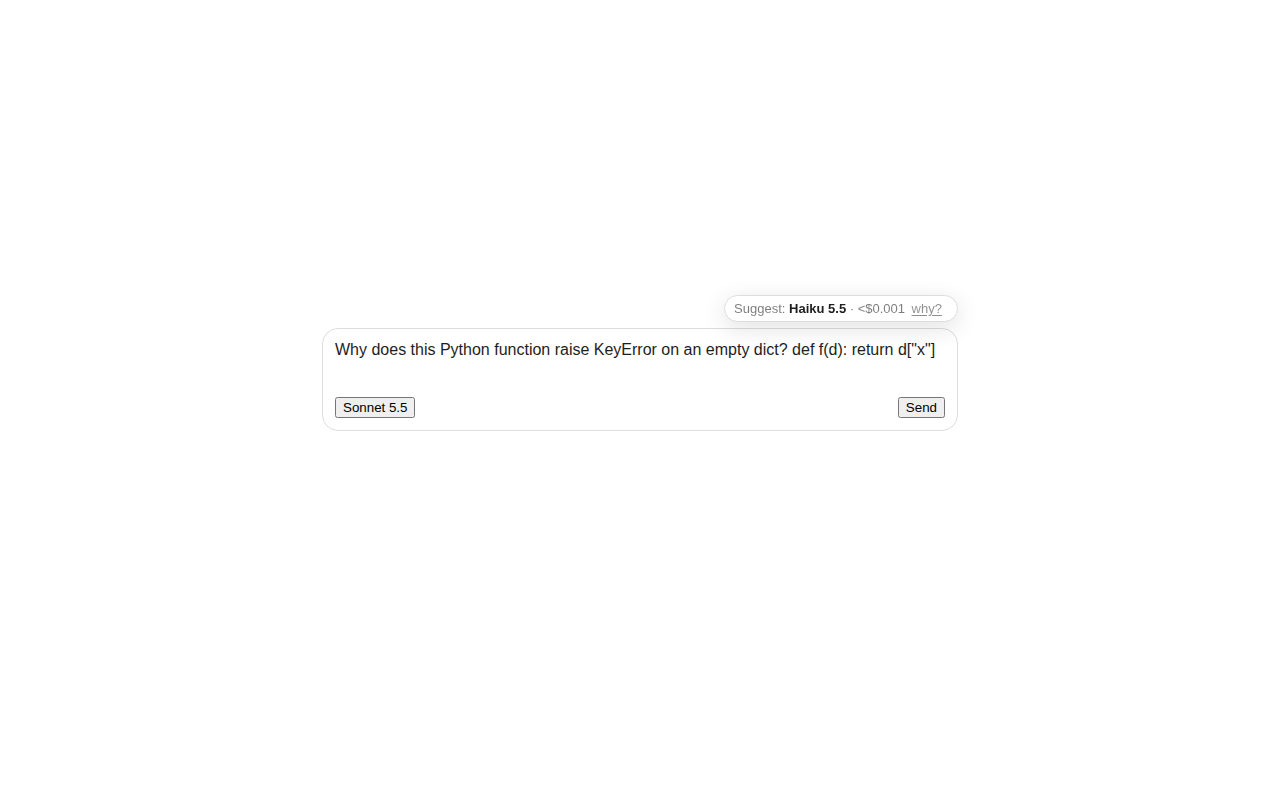
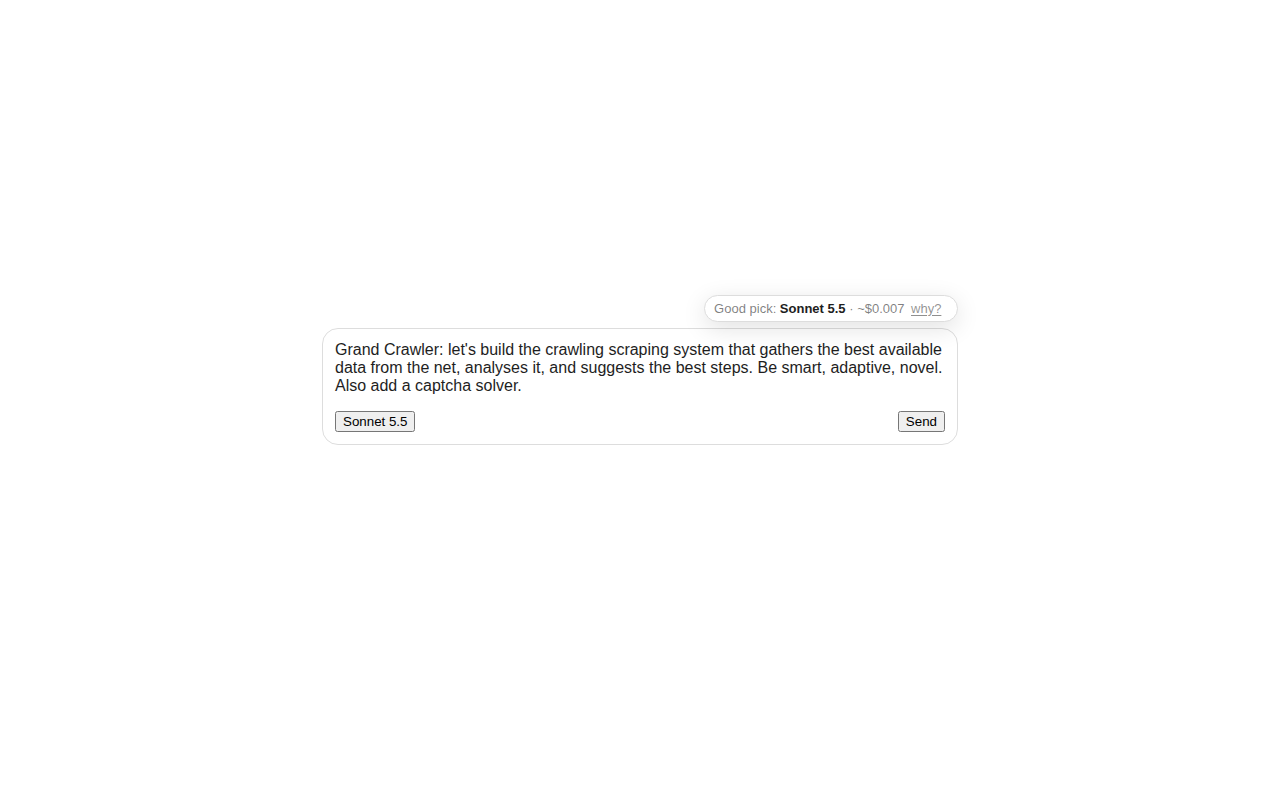
Better suggestions and a clearer cloud, from real-page feedback
Classifier knows build/system/crawler vocabulary and no longer calls a long
plain prompt a quick chat; a quality floor stops a much weaker model from
winning on price alone; hidden attachment elements (ChatGPT's phantom
2,000 tokens) are ignored and an empty box only counts with an image.
The cloud labels the fit bars with percentages, marks the selected model,
and can list every available model.

Changed region(s): [[0.25, 0.375, 0.75, 0.5625], [0.6875, 0.5, 0.75, 0.5312]]

diff --git a/src/analyser/explain.ts b/src/analyser/explain.ts
@@ -3,7 +3,7 @@ import { TASK_LABELS } from '../shared/types';
 import { formatCost, formatUsd } from './cost';
 
 export interface ExplainRow {
-  modelId: string; label: string; serviceName: string; fit: number; cost: string; apiCost?: string; isWinner: boolean;
+  modelId: string; label: string; serviceName: string; fit: number; cost: string; apiCost?: string; isWinner: boolean; isCurrent?: boolean;
 }
 
 export interface Explanation {
@@ -12,6 +12,7 @@ export interface Explanation {
   tokens: number;
   sensitive: string[];
   rows: ExplainRow[];
+  more: ExplainRow[];          // every other model that can take the prompt, best first
   why: string;
   elsewhere?: { label: string; serviceName: string; cost: string; why: string };
   isCurrent: boolean;
@@ -62,15 +63,20 @@ function dominantReason(s: Suggestion, catalog: Catalog): string {
 }
 
 export function explain(s: Suggestion, catalog: Catalog): Explanation {
-  const rows: ExplainRow[] = s.ranked.slice(0, 3).map(r => ({
+  const toRow = (r: Ranked): ExplainRow => ({
     modelId: r.modelId, label: r.label,
     serviceName: catalog.services[r.serviceId]?.name ?? r.serviceId,
-    fit: r.fit, ...costStrings(catalog, r), isWinner: r.modelId === s.here.modelId,
-  }));
+    fit: r.fit, ...costStrings(catalog, r), isWinner: r.modelId === s.here.modelId, isCurrent: r.modelId === s.current,
+  });
+  const rows: ExplainRow[] = s.ranked.slice(0, 3).map(toRow);
+  const shown = new Set(rows.map(r => r.modelId));
   if (!rows.some(r => r.isWinner)) {
     const w = s.here;
-    rows.splice(2, 1, { modelId: w.modelId, label: w.label, serviceName: catalog.services[w.serviceId]?.name ?? w.serviceId, fit: w.fit, ...costStrings(catalog, w), isWinner: true });
+    shown.delete(rows[2]!.modelId);
+    rows.splice(2, 1, toRow(w));
+    shown.add(w.modelId);
   }
+  const more = s.ranked.filter(r => !shown.has(r.modelId)).map(toRow);
   const signals = s.classification.signals
     .map(x => x.startsWith('kw:') ? `"${x.slice(3)}"` : x.startsWith('pattern:') ? `${x.slice(8)} pattern` : x.replace(':', ' '))
     .slice(0, 8);
@@ -78,7 +84,7 @@ export function explain(s: Suggestion, catalog: Catalog): Explanation {
   return {
     taskLabel: TASK_LABELS[s.classification.primary as TaskType],
     signals, tokens: s.classification.tokensIn, sensitive: s.classification.sensitive,
-    rows, why: dominantReason(s, catalog), isCurrent: s.isCurrent,
+    rows, more, why: dominantReason(s, catalog), isCurrent: s.isCurrent,
     elsewhere: e ? {
       label: e.label, serviceName: catalog.services[e.serviceId]?.name ?? e.serviceId,
       cost: costStrings(catalog, e).cost, why: e.reasons[e.reasons.length - 1] ?? '',

diff --git a/tests/e2e/chromium.spec.ts b/tests/e2e/chromium.spec.ts
@@ -30,7 +30,7 @@ test('badge appears while typing, survives re-render and route change, cloud ope
   const composer = page.locator('.ProseMirror');
   await composer.click();
   await page.keyboard.type('Why does this Python function raise KeyError? def f(d): return d["x"]');
-  await expect.poll(() => badgeText(page), { timeout: 3000 }).toContain('Suggest:');
+  await expect.poll(() => badgeText(page), { timeout: 3000 }).toMatch(/Suggest:|Good pick/);
   expect(await page.evaluate(() => document.querySelector('euboulia-badge')?.parentElement === document.body)).toBe(true);
 
   // Cloud in the right margin at 1600 px.
@@ -38,6 +38,14 @@ test('badge appears while typing, survives re-render and route change, cloud ope
   await expect.poll(() => page.evaluate(() => (document.querySelector('euboulia-cloud') as HTMLElement | null)?.dataset.mode ?? '')).toBe('margin');
   const cloudText = await page.evaluate(() => document.querySelector('euboulia-cloud')?.shadowRoot?.textContent ?? '');
   expect(cloudText).toContain('code');
+  expect(cloudText).toContain('Fit for this task');   // the bars are labelled
+  expect(cloudText).toMatch(/\d+%/);                  // and carry a number
+  // The full model list is one click away and reveals the hidden rows.
+  const hiddenBefore = await page.evaluate(() => [...document.querySelector('euboulia-cloud')!.shadowRoot!.querySelectorAll('tr.extra')].filter(r => getComputedStyle(r).display !== 'none').length);
+  expect(hiddenBefore).toBe(0);
+  await page.evaluate(() => (document.querySelector('euboulia-cloud')!.shadowRoot!.querySelector('button.more') as HTMLButtonElement | null)?.click());
+  const shownAfter = await page.evaluate(() => [...document.querySelector('euboulia-cloud')!.shadowRoot!.querySelectorAll('tr.extra')].filter(r => getComputedStyle(r).display !== 'none').length);
+  expect(shownAfter).toBeGreaterThan(0);
   await page.keyboard.press('Escape');
 
   // Re-render + route change: a badge must come back for the new composer.
@@ -45,7 +53,7 @@ test('badge appears while typing, survives re-render and route change, cloud ope
   const newComposer = page.locator('.ProseMirror');
   await newComposer.click();
   await page.keyboard.type('Translate this into French: good morning');
-  await expect.poll(() => badgeText(page), { timeout: 3000 }).toContain('Suggest:');
+  await expect.poll(() => badgeText(page), { timeout: 3000 }).toMatch(/Suggest:|Good pick/);
   expect(await page.evaluate(() => document.querySelectorAll('euboulia-badge').length)).toBe(1);
 
   // Dock mode at a narrow viewport.

diff --git a/src/content/cloud.ts b/src/content/cloud.ts
@@ -86,23 +86,44 @@ export class Cloud {
     }
 
     const table = el('table');
-    for (const r of x.rows) {
-      const tr = el('tr', r.isWinner ? 'win' : undefined);
+    const thead = el('thead');
+    const hr = el('tr');
+    const th = (text: string, cls?: string, title?: string) => { const h = el('th', cls, text); if (title) h.title = title; return h; };
+    hr.append(th('Model'), th('Fit for this task', 'fit', 'How well the model suits this kind of prompt, 0 to 100%'), th('Est. cost', 'cost', 'Estimated cost of this one message at API prices, or included in your plan'));
+    thead.append(hr);
+    table.append(thead);
+    const body = el('tbody');
+    const addRow = (r: Explanation['rows'][number], extra = false) => {
+      const tr = el('tr', [r.isWinner ? 'win' : '', extra ? 'extra' : ''].filter(Boolean).join(' ') || undefined);
       const name = el('td', 'name', r.label);
+      if (r.isCurrent) name.append(el('em', undefined, ' · selected now'));
       name.append(el('small', undefined, r.serviceName));
       const fit = el('td', 'fit');
       const bar = el('div', 'bar');
       const fill = el('i');
       fill.style.width = `${Math.round(r.fit * 100)}%`;
       bar.append(fill);
-      bar.title = `fit ${r.fit.toFixed(2)}`;
-      fit.append(bar);
+      fit.append(bar, el('span', 'pct', `${Math.round(r.fit * 100)}%`));
+      fit.title = `Fit for this task: ${Math.round(r.fit * 100)}%`;
       const cost = el('td', 'cost', r.cost);
       if (r.apiCost) cost.append(el('small', undefined, r.apiCost));
       tr.append(name, fit, cost);
-      table.append(tr);
-    }
+      body.append(tr);
+    };
+    for (const r of x.rows) addRow(r);
+    for (const r of x.more) addRow(r, true);
+    table.append(body);
     box.append(table);
+    if (x.more.length) {
+      const toggle = el('button', 'more', `Show ${x.more.length} more model${x.more.length === 1 ? '' : 's'}`);
+      toggle.setAttribute('aria-expanded', 'false');
+      toggle.addEventListener('click', () => {
+        const open = table.classList.toggle('all');
+        toggle.setAttribute('aria-expanded', String(open));
+        toggle.textContent = open ? 'Show fewer' : `Show ${x.more.length} more model${x.more.length === 1 ? '' : 's'}`;
+      });
+      box.append(toggle);
+    }
 
     box.append(el('p', 'why', x.why));
 

diff --git a/tests/unit/real-prompts.test.ts b/tests/unit/real-prompts.test.ts
@@ -1,0 +1,38 @@
+// End-to-end through the bundled catalog: the prompts that exposed bad suggestions on real pages.
+import { describe, expect, it } from 'vitest';
+import { classify } from '../../src/analyser/classify';
+import { scoreCandidates } from '../../src/analyser/score';
+import { BUNDLED, candidatesFor } from '../../src/catalog/index';
+import { DEFAULT_PREFS } from '../../src/shared/types';
+
+const CRAWLER = "Grand Crawler: let's build the crawling scraping system that gathers the best available and relevant data from the net, analysis it, and then suggests the best steps for the best work experience possible. We need to catch timings and increase the business value while decreasing the costs. Be smart, adaptive, novel. Also, add captcha solver";
+
+function pick(text: string, service: string, costWeight = DEFAULT_PREFS.costWeight): string {
+  const cls = classify(text);
+  const ranked = scoreCandidates(cls, candidatesFor(BUNDLED, service, { ...DEFAULT_PREFS, services: {} }), { ...DEFAULT_PREFS, costWeight }, [], service);
+  return ranked[0]!.label;
+}
+
+describe('suggestions on real prompts', () => {
+  it('a system-building prompt is code work, not a quick chat', () => {
+    const c = classify(CRAWLER);
+    expect(c.primary).toBe('code');
+    expect(c.weights.chat ?? 0).toBe(0);
+  });
+  it('does not suggest the smallest Claude model for it at the default slider', () => {
+    expect(pick(CRAWLER, 'claude')).not.toBe('Haiku 5.5');
+  });
+  it('quality-first (slider 0) picks the strongest model, cheapest-first (slider 1) the cheapest', () => {
+    expect(pick(CRAWLER, 'claude', 0)).toMatch(/Fable|Opus/);
+    expect(pick(CRAWLER, 'claude', 1)).toBe('Haiku 5.5');
+  });
+  it('a trivial question still gets the cheap model', () => {
+    expect(pick('print hello world in one line', 'gemini')).toMatch(/Lite|Flash/);
+    expect(pick("What's the capital of Portugal?", 'claude')).toBe('Haiku 5.5');
+  });
+  it('a long plain-language prompt is weighed for quality, not labelled quick chat', () => {
+    const c = classify('Tell me about the history of the Roman republic and how its institutions changed over the centuries, and what lessons that holds for modern governments today. '.repeat(2));
+    expect(c.primary).toBe('reasoning');
+    expect(c.signals).toContain('long prompt');
+  });
+});

diff --git a/src/analyser/signals.ts b/src/analyser/signals.ts
@@ -12,7 +12,10 @@ export const TASK_SIGNALS: Record<Exclude<TaskType, 'vision' | 'long_context' | 
     keywords: ['code', 'function', 'bug', 'error', 'stack trace', 'python', 'javascript', 'typescript',
       'sql', 'regex', 'refactor', 'unit test', 'api', 'docker', 'bash', 'compile', 'exception',
       'script', 'debug', 'implement', 'class', 'method', 'library', 'npm', 'git', 'html', 'css',
-      'react', 'rust', 'golang', 'java', 'c++', 'endpoint', 'json', 'yaml', 'config', 'lint'],
+      'react', 'rust', 'golang', 'java', 'c++', 'endpoint', 'json', 'yaml', 'config', 'lint',
+      'build', 'crawler', 'crawling', 'scraper', 'scraping', 'system', 'architecture', 'pipeline',
+      'algorithm', 'database', 'framework', 'backend', 'frontend', 'server', 'deploy', 'solver',
+      'automation', 'software', 'program', 'microservice', 'repository', 'schema design'],
     patterns: [/```/, /Traceback \(most recent call last\)/, /\bdef \w+\(/, /\bclass \w+/,
       /\bfunction \w+\s*\(/, /=>\s*{/, /\bimport \w+ from\b/, /\bSELECT\b.+\bFROM\b/i,
       /\bconsole\.log\b/, /\bnull pointer\b/i, /\bTypeError\b|\bReferenceError\b|\bSyntaxError\b/],
@@ -21,7 +24,8 @@ export const TASK_SIGNALS: Record<Exclude<TaskType, 'vision' | 'long_context' | 
     keywords: ['prove', 'proof', 'calculate', 'probability', 'equation', 'step by step', 'optimize',
       'optimise', 'trade-off', 'tradeoff', 'derive', 'logic puzzle', 'theorem', 'integral',
       'strategy', 'plan', 'why does', 'explain why', 'compare', 'evaluate', 'reason', 'analyse',
-      'analyze', 'decide', 'pros and cons', 'estimate', 'riddle', 'math', 'solve'],
+      'analyze', 'analysis', 'decide', 'pros and cons', 'estimate', 'riddle', 'math', 'solve',
+      'design', 'adaptive', 'novel', 'architecture', 'best approach', 'business value'],
     patterns: [/\d+\s*[+\-*/^]\s*\d+/, /\b\d+\s*%/, /[∑∫√≤≥≠]/],
   },
   writing: {

diff --git a/src/sites/adapter.ts b/src/sites/adapter.ts
@@ -49,6 +49,17 @@ export function isVisibleDefault(el: Element): boolean {
   return cs.visibility !== 'hidden' && cs.display !== 'none';
 }
 
+/** Lenient visibility for small things like attachment chips (the composer check wants a minimum size). */
+export function isShownDefault(el: Element): boolean {
+  const h = el as HTMLElement;
+  if (!h.isConnected) return false;
+  if (typeof h.getClientRects !== 'function') return true;
+  const rect = h.getBoundingClientRect();
+  if (rect.width < 1 || rect.height < 1) return false;
+  const cs = getComputedStyle(h);
+  return cs.visibility !== 'hidden' && cs.display !== 'none' && cs.opacity !== '0';
+}
+
 export function queryFirst<T extends Element = Element>(root: ParentNode, selectors: string[] | undefined): T | null {
   for (const s of selectors ?? []) {
     try { const el = root.querySelector<T>(s); if (el) return el; } catch { /* bad selector */ }
@@ -154,7 +165,9 @@ export function makeAdapter(spec: AdapterSpec, deps: AdapterDeps): SiteAdapter {
     },
     attachments: (c) => {
       const out: Attachment[] = [];
+      const shown = deps.isVisible ?? isShownDefault;
       for (const el of queryAll(c.container, sel().attachments)) {
+        if (el.tagName === 'INPUT' || !shown(el)) continue;   // hidden file inputs and templates are not attachments
         if (el.closest('button') && el.tagName === 'IMG') continue;
         const isImg = el.tagName === 'IMG' || !!el.querySelector('img') || /image|photo|png|jpe?g|webp|gif/i.test(el.getAttribute('aria-label') ?? el.getAttribute('alt') ?? '');
         out.push({ kind: isImg ? 'image' : 'file', name: el.getAttribute('aria-label') ?? el.getAttribute('alt') ?? undefined });

diff --git a/src/content/styles.ts b/src/content/styles.ts
@@ -44,11 +44,20 @@ export const CLOUD_CSS = BASE_CSS + `
 .chip { font-size: .88em; padding: 1px 7px; border-radius: 999px; background: var(--eu-faint); color: var(--eu-muted); }
 .warn { font-size: .92em; color: var(--eu-fg); background: var(--eu-faint); padding: 6px 8px; border-radius: 6px; }
 table { border-collapse: collapse; width: 100%; font-size: .95em; }
+th { text-align: left; font-weight: 500; font-size: .82em; color: var(--eu-muted); padding: 0 0 4px; }
+th.fit { padding-right: 8px; }
+th.cost { text-align: right; }
 td { padding: 4px 0; vertical-align: middle; }
+tr.extra { display: none; }
+table.all tr.extra { display: table-row; }
+td.name em { font-style: normal; font-weight: 400; color: var(--eu-muted); font-size: .85em; }
+td.fit .pct { display: block; font-size: .8em; color: var(--eu-muted); margin-top: 2px; font-variant-numeric: tabular-nums; }
+button.more { align-self: flex-start; color: var(--eu-muted); text-decoration: underline; text-underline-offset: 2px; font-size: .9em; padding: 0; }
+button.more:hover { color: var(--eu-fg); }
 td.name { padding-right: 8px; }
 td.name small { display: block; color: var(--eu-muted); font-size: .85em; }
 tr.win td.name { font-weight: 600; }
-td.fit { width: 72px; padding-right: 8px; }
+td.fit { width: 84px; padding-right: 8px; }
 .bar { height: 5px; border-radius: 3px; background: var(--eu-faint); overflow: hidden; }
 .bar i { display: block; height: 100%; background: var(--eu-muted); }
 td.cost { text-align: right; white-space: nowrap; }

diff --git a/src/analyser/score.ts b/src/analyser/score.ts
@@ -5,6 +5,11 @@ import { applyRules } from './rules';
 
 const DEFAULT_STRENGTH = 0.5;
 const CONTEXT_MARGIN = 1.2;
+// Quality floor: a model whose fit trails the best candidate by more than this cannot win on price alone.
+// The tolerance grows with the cost slider (0 = only near-best models, 1 = anything goes).
+export const FLOOR_BASE = 0.1;
+export const FLOOR_PER_COST = 0.4;
+const FLOOR_PENALTY = 2;
 
 export function fitScore(cls: Classification, strengths: Candidate['model']['strengths']): number {
   let fit = 0;
@@ -51,10 +56,13 @@ export function scoreCandidates(
   }
   const cs = costScores(partial);
   const lambda = Math.min(1, Math.max(0, prefs.costWeight));
+  const bestFit = Math.max(0, ...partial.map(p => p.fit));
+  const floor = bestFit - (FLOOR_BASE + FLOOR_PER_COST * lambda);
   const ranked: Ranked[] = partial.map((p, i) => {
     const boost = effects.boosts.get(p.modelId);
     const bias = biasFor.get(p.modelId);
-    const total = (1 - lambda) * p.fit + lambda * cs[i]! + (boost?.boost ?? 0) + (bias?.boost ?? 0);
+    const shortfall = Math.max(0, floor - p.fit);
+    const total = (1 - lambda) * p.fit + lambda * cs[i]! + (boost?.boost ?? 0) + (bias?.boost ?? 0) - FLOOR_PENALTY * shortfall;
     if (boost) p.reasons.push(`your rule "${boost.ruleId}" prefers it`);
     if (bias && bias.boost > 0) p.reasons.push(bias.reason);
     return { ...p, costScore: cs[i]!, total };

diff --git a/src/analyser/classify.ts b/src/analyser/classify.ts
@@ -1,7 +1,7 @@
 import type { Attachment, Classification, TaskType } from '../shared/types';
 import { detectSensitive } from './sensitive';
 import { KEYWORD_WEIGHT, PATTERN_WEIGHT, TASK_SIGNALS, keywordRegex } from './signals';
-import { LONG_CONTEXT_TOKENS, estimateTokens, sizeBucket } from './tokens';
+import { LONG_CONTEXT_TOKENS, LONG_PROMPT_TOKENS, estimateTokens, sizeBucket } from './tokens';
 
 const HEAD = 50_000;
 const TAIL = 10_000;
@@ -43,7 +43,12 @@ export function classify(text: string, attachments: Attachment[] = []): Classifi
   const sum = Object.values(scores).reduce((a, b) => a + b, 0);
   const weights: Partial<Record<TaskType, number>> = {};
   let primary: TaskType = 'chat';
-  if (sum === 0) {
+  if (sum === 0 && tokensIn >= LONG_PROMPT_TOKENS) {
+    // A substantial message with no task vocabulary is still not a quick question: weigh quality, not just price.
+    weights.reasoning = 0.6; weights.chat = 0.4;
+    primary = 'reasoning';
+    signals.push('long prompt');
+  } else if (sum === 0) {
     weights.chat = 1;
   } else {
     let best = 0;

diff --git a/tests/dom/adapters.test.ts b/tests/dom/adapters.test.ts
@@ -155,4 +155,15 @@ describe('site adapters', () => {
     expect(resolveModelLabel(BUNDLED, 'poe', a.currentModel(cs[0]!))).toBe('anthropic/claude-sonnet-5.5');
     expect(resolveModelLabel(BUNDLED, 'poe', a.currentModel(cs[1]!))).toBe('openai/gpt-6-luna');
   });
+
+  it('attachments: hidden elements and file inputs are not counted', () => {
+    loadFixture('chatgpt', 'chatgpt.com');
+    const a = pickAdapter({ ...deps, isVisible: el => !el.hasAttribute('hidden') });
+    const [c] = a.composers();
+    const form = c!.container;
+    form.insertAdjacentHTML('beforeend', '<div data-testid="file-attachment" hidden></div><input type="file" data-testid="attachment-input">');
+    const before = a.attachments(c!).length;
+    form.insertAdjacentHTML('beforeend', '<div data-testid="file-attachment">report.pdf</div>');
+    expect(a.attachments(c!).length).toBe(before + 1);
+  });
 });

diff --git a/src/sites/generic.ts b/src/sites/generic.ts
@@ -1,7 +1,7 @@
 import type { Attachment } from '../shared/types';
 import { allAliases } from '../catalog/aliases';
 import {
-  containerOf, idFor, isVisibleDefault, makeHandle, nearestSendButton, readComposerText, textOf,
+  containerOf, idFor, isShownDefault, isVisibleDefault, makeHandle, nearestSendButton, readComposerText, textOf,
   type AdapterDeps, type ComposerHandle, type SiteAdapter,
 } from './adapter';
 
@@ -46,6 +46,7 @@ export function generic(deps: AdapterDeps, id = 'generic'): SiteAdapter {
     attachments: (c) => {
       const out: Attachment[] = [];
       for (const img of c.container.querySelectorAll('img')) {
+        if (!(deps.isVisible ?? isShownDefault)(img)) continue;
         if (img.closest('button') || img.width < 24 && img.height < 24) continue;
         out.push({ kind: 'image', name: img.alt || undefined });
       }

diff --git a/src/content/watcher.ts b/src/content/watcher.ts
@@ -52,7 +52,7 @@ export class ComposerWatcher {
     const { adapter, catalog, prefs, rules, serviceId, observed, usage } = this.shared;
     const text = adapter.readText(this.c).trim();
     const attachments = adapter.attachments(this.c);
-    if (!text && !attachments.length) { this.badge.hide(); this.suggestion = undefined; if (this.shared.cloud.isOpen) this.shared.cloud.close(); return; }
+    if (!text && !attachments.some(a => a.kind === 'image')) { this.badge.hide(); this.suggestion = undefined; if (this.shared.cloud.isOpen) this.shared.cloud.close(); return; }
     const cls = classify(text, attachments);
     const currentLabel = adapter.currentModel(this.c);
     const current = resolveModelLabel(catalog, serviceId, currentLabel) ?? undefined;
